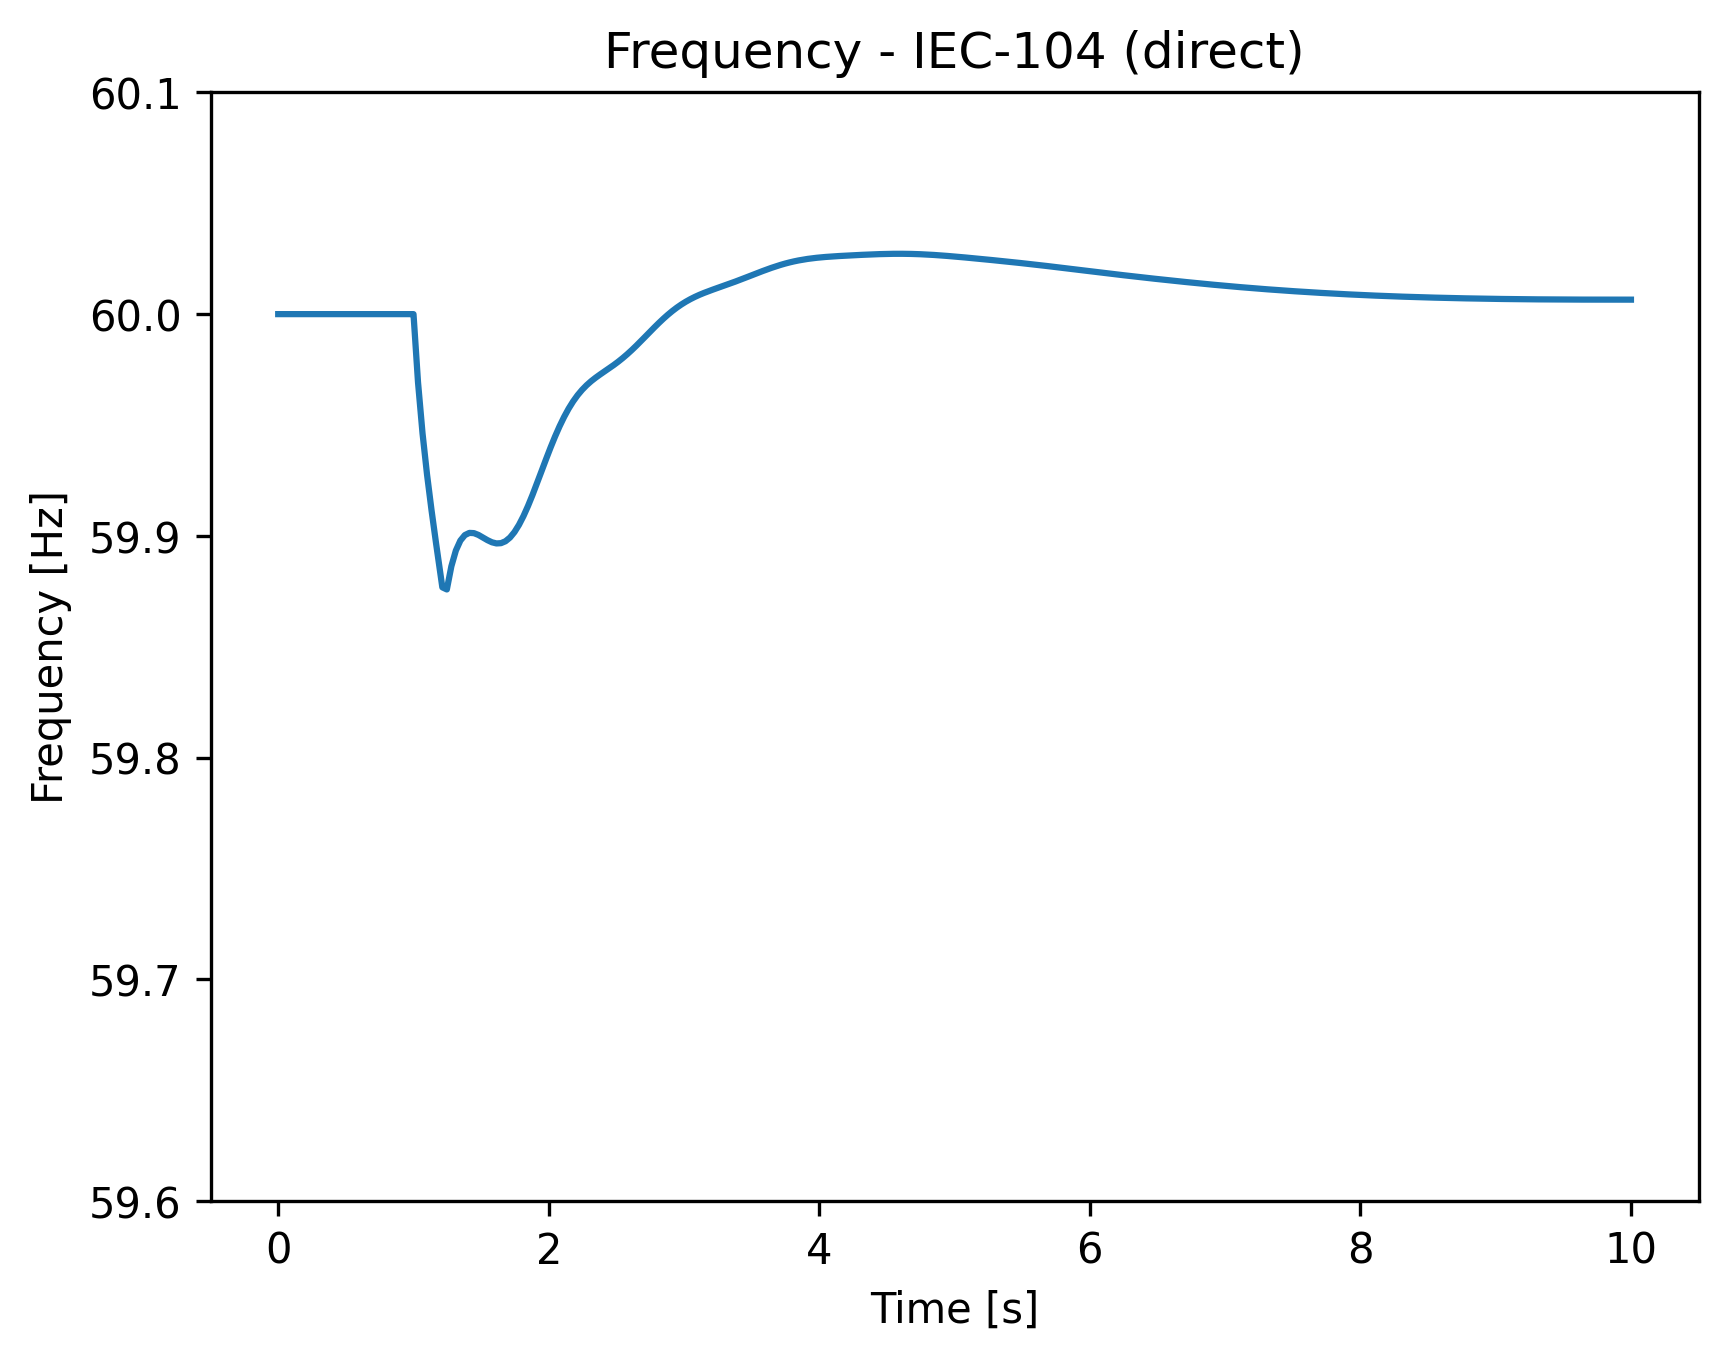
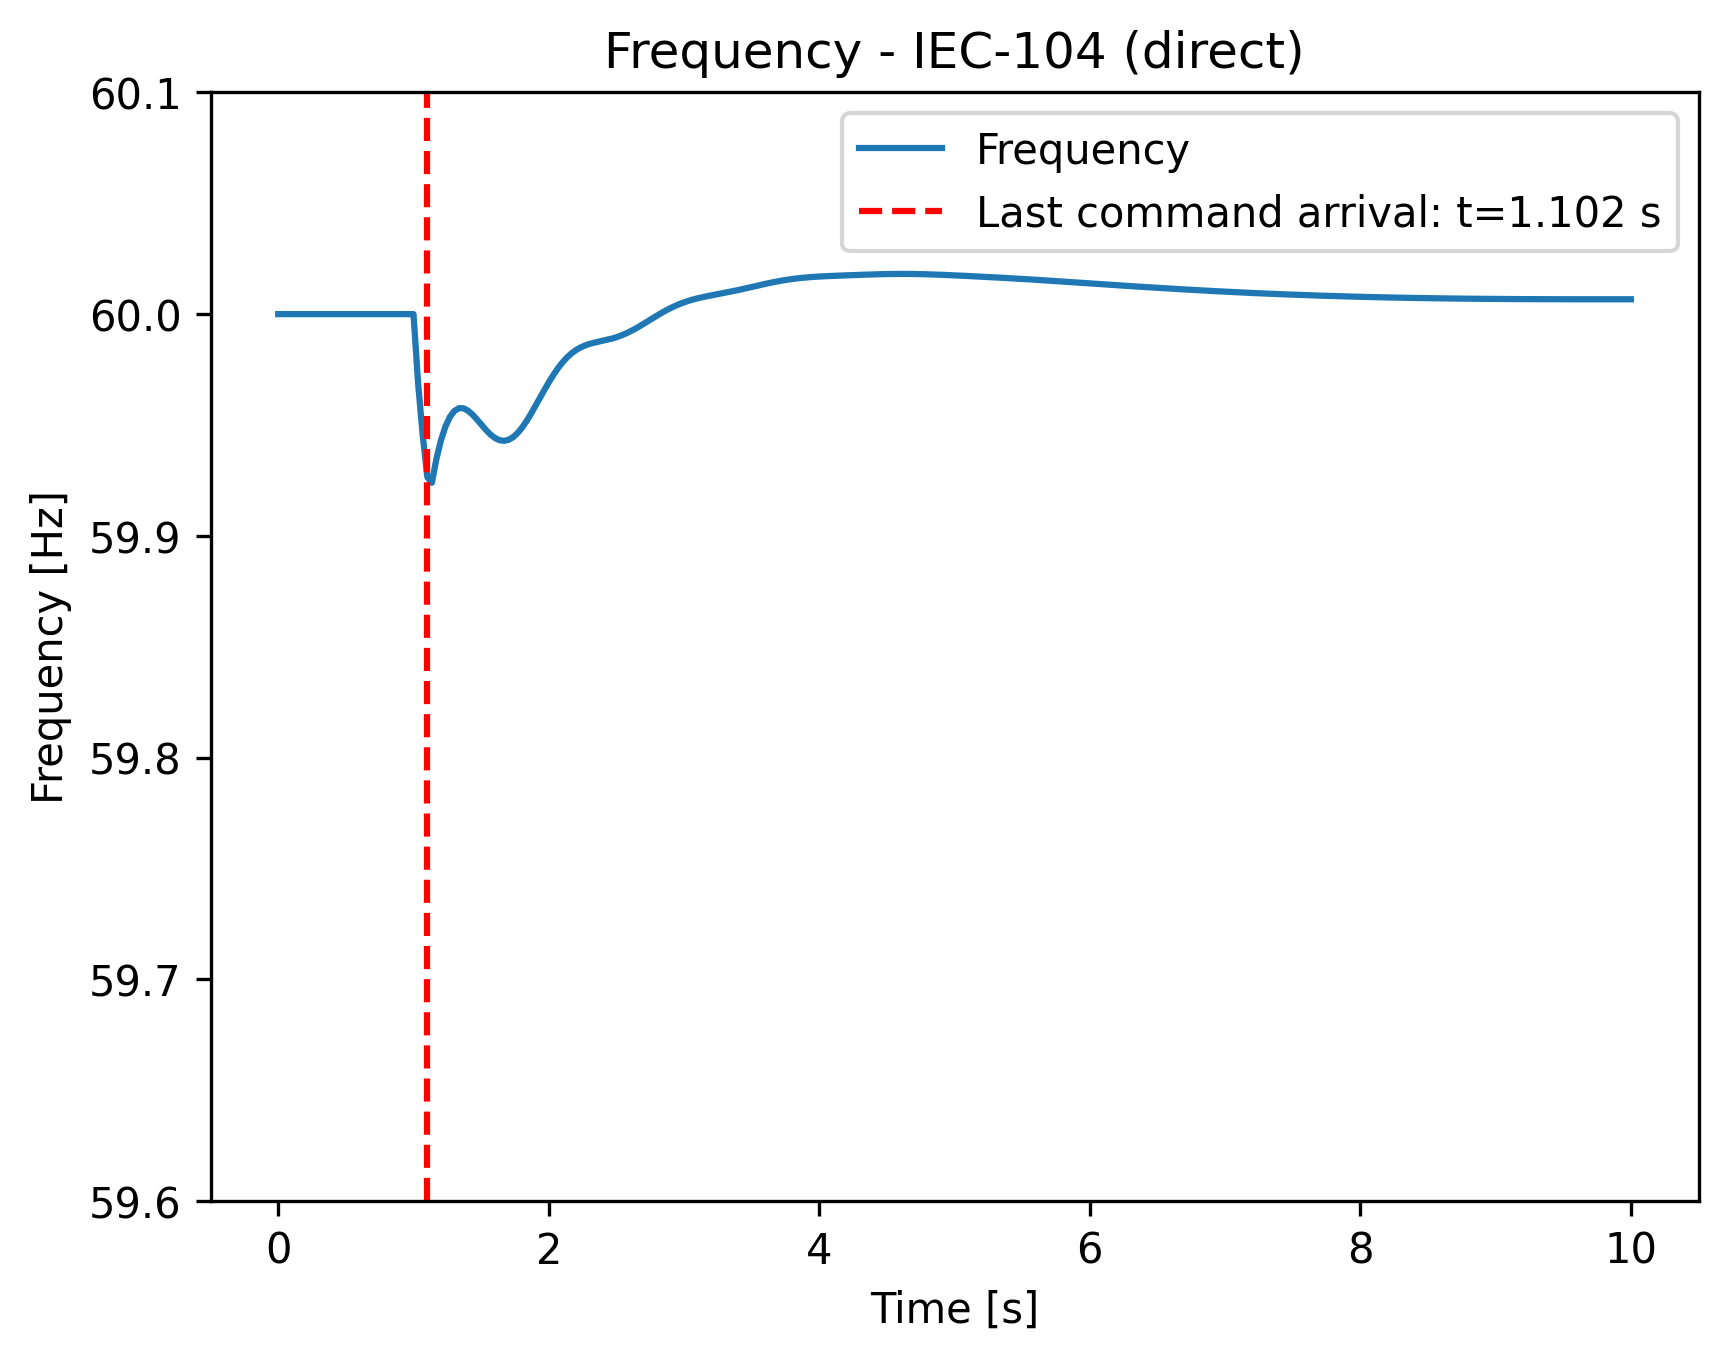
Added MITM strategy with random delay

diff --git a/mitm_proxy_iec104_delay.py b/mitm_proxy_iec104_delay.py
@@ -22,6 +22,7 @@ Run example (3 terminals):
 """
 
 import argparse
+import random
 import threading
 import time
 import sys
@@ -50,6 +51,24 @@ def main() -> None:
     ap.add_argument("--upstream-port", type=int, default=2404, help="real outstation server port")
     ap.add_argument("--ca", type=int, default=1, help="station common address")
     ap.add_argument("--shed-delay", type=float, default=0.0, help="additional delay (seconds) applied ONLY to shed commands")
+    ap.add_argument(
+        "--shed-delay-min",
+        type=float,
+        default=None,
+        help="if set together with --shed-delay-max, apply a per-packet random delay U[min,max] to EACH shed command packet",
+    )
+    ap.add_argument(
+        "--shed-delay-max",
+        type=float,
+        default=None,
+        help="upper bound for per-packet random delay (seconds)",
+    )
+    ap.add_argument(
+        "--seed",
+        type=int,
+        default=None,
+        help="RNG seed for repeatable per-packet delays (only used with --shed-delay-min/--shed-delay-max)",
+    )
     ap.add_argument("--tick-ms", type=int, default=50, help="tick rate (ms), min 50ms in c104")
     ap.add_argument("--command-timeout-ms", type=int, default=10000)
     ap.add_argument("--shed-buses", default="2,3,4,5,6,9", help="comma-separated bus list for shed commands")
@@ -59,6 +78,9 @@ def main() -> None:
 
     shed_buses = [int(x.strip()) for x in args.shed_buses.split(",") if x.strip()]
     ca = int(args.ca)
+
+    use_random_per_packet = (args.shed_delay_min is not None) and (args.shed_delay_max is not None)
+    rng = random.Random(args.seed) if use_random_per_packet else None
 
     t0 = time.monotonic()
 
@@ -77,7 +99,13 @@ def main() -> None:
     print(
         f"[iec104-mitm] listen {args.listen_host}:{args.listen_port} (as outstation) | "
         f"upstream {args.upstream_host}:{args.upstream_port} (as master) | CA={ca} | shed_delay={args.shed_delay}s"
-        , flush=True
+        + (
+            f" | per_packet_delay=U[{float(args.shed_delay_min):.3f},{float(args.shed_delay_max):.3f}]s seed={args.seed}"
+            if use_random_per_packet
+            else ""
+        )
+        ,
+        flush=True,
     )
 
     # --------------------------
@@ -208,7 +236,9 @@ def main() -> None:
                 pt.transmit(c104.Cot.SPONTANEOUS)
 
     # --------------------------
-    # Delay ONLY shedding commands (buffer + flush)
+    # Delay ONLY shedding commands
+    #   - Default: buffer + flush once after fixed --shed-delay (legacy behavior)
+    #   - Optional: per-packet random delay U[min,max] for EACH shed command
     # --------------------------
     start_lock = threading.Lock()
     pending_start: bool | None = None
@@ -254,6 +284,57 @@ def main() -> None:
     cmd_lock = threading.Lock()
     pending_shed: dict[int, float] = {}  # ioa -> value
     flush_timer: threading.Timer | None = None
+
+    def _sample_shed_delay() -> float:
+        if not use_random_per_packet:
+            return max(0.0, float(args.shed_delay))
+        lo = float(args.shed_delay_min)
+        hi = float(args.shed_delay_max)
+        if lo > hi:
+            lo, hi = hi, lo
+        if hi <= 0.0:
+            return 0.0
+        lo = max(0.0, lo)
+        hi = max(0.0, hi)
+        # rng is set when use_random_per_packet=True
+        return float(rng.uniform(lo, hi))
+
+    def _forward_one_shed(ioa: int, value: float, sampled_delay_s: float) -> None:
+        ioa = int(ioa)
+        value = float(value)
+        sampled_delay_s = max(0.0, float(sampled_delay_s))
+
+        def _attempt_send() -> None:
+            if not upstream_open.is_set():
+                log(f"FWD shed deferred (upstream not open) ioa={ioa}")
+                t = threading.Timer(0.1, _attempt_send)
+                t.daemon = True
+                t.start()
+                return
+
+            bus = int(ioa - IOA_SHED_BASE)
+            pt = up_shed_cmd.get(bus)
+            if pt is None:
+                return
+            try:
+                pt.value = float(value)
+                ok = pt.transmit(c104.Cot.ACTIVATION)
+            except Exception:
+                ok = False
+
+            if not ok:
+                log(f"FWD shed failed; retrying ioa={ioa}")
+                t = threading.Timer(0.1, _attempt_send)
+                t.daemon = True
+                t.start()
+                return
+
+            log(f"FWD MITM->upstream shed ioa={ioa} value={float(value)}")
+
+        log(f"ARM per-packet shed timer ioa={ioa} delay={sampled_delay_s:.3f}s")
+        t = threading.Timer(sampled_delay_s, _attempt_send)
+        t.daemon = True
+        t.start()
 
     def flush_shed_commands() -> None:
         nonlocal flush_timer
@@ -357,20 +438,26 @@ def main() -> None:
                 return c104.ResponseState.FAILURE
 
         if is_shed_command_ioa(ioa, shed_buses):
-            # Buffer and flush once after shed-delay.
-            nonlocal flush_timer
-            with cmd_lock:
-                pending_shed[ioa] = float(value)
-                log(f"BUF shed ioa={ioa} value={float(value)} pending={len(pending_shed)}")
-                if flush_timer is None:
-                    delay_s = max(0.0, float(args.shed_delay))
-                    log(f"ARM flush timer in {delay_s:.3f}s")
-                    if delay_s == 0.0:
-                        flush_timer = threading.Timer(0.0, flush_shed_commands)
-                    else:
-                        flush_timer = threading.Timer(delay_s, flush_shed_commands)
-                    flush_timer.daemon = True
-                    flush_timer.start()
+            if use_random_per_packet:
+                # Independent delay for each shed command packet.
+                with cmd_lock:
+                    delay_s = _sample_shed_delay()
+                _forward_one_shed(int(ioa), float(value), float(delay_s))
+            else:
+                # Legacy: buffer and flush once after fixed --shed-delay.
+                nonlocal flush_timer
+                with cmd_lock:
+                    pending_shed[ioa] = float(value)
+                    log(f"BUF shed ioa={ioa} value={float(value)} pending={len(pending_shed)}")
+                    if flush_timer is None:
+                        delay_s = max(0.0, float(args.shed_delay))
+                        log(f"ARM flush timer in {delay_s:.3f}s")
+                        if delay_s == 0.0:
+                            flush_timer = threading.Timer(0.0, flush_shed_commands)
+                        else:
+                            flush_timer = threading.Timer(delay_s, flush_shed_commands)
+                        flush_timer.daemon = True
+                        flush_timer.start()
 
             # Ack immediately; the forwarding is delayed.
             return c104.ResponseState.SUCCESS

diff --git a/system_RT_iec104.py b/system_RT_iec104.py
@@ -227,13 +227,23 @@ def extract_time_and_freq(ss: andes.system.System):
     return ts, freq_mat[:, 0]
 
 
-def plot_frequency(t, freq, title: str, filename: str) -> None:
+def plot_frequency(t, freq, title: str, filename: str, last_cmd_time: float | None = None) -> None:
     fig, ax = plt.subplots()
-    ax.plot(t, freq)
+    ax.plot(t, freq, label="Frequency")
+    if last_cmd_time is not None:
+        t_last = float(last_cmd_time)
+        ax.axvline(
+            t_last,
+            color="r",
+            linestyle="--",
+            label=f"Last command arrival: t={t_last:.3f} s",
+        )
     ax.set_xlabel("Time [s]")
     ax.set_ylabel("Frequency [Hz]")
     ax.set_title(title)
     ax.set_ylim(FREQ_Y_LIMS[0], FREQ_Y_LIMS[1])
+
+    ax.legend(loc="best")
 
     PLOTS_DIR.mkdir(parents=True, exist_ok=True)
     out_path = PLOTS_DIR / filename
@@ -254,12 +264,6 @@ def _parse_args() -> argparse.Namespace:
         choices=["direct", "mitm"],
         default=os.environ.get("IEC104_SCENARIO", "direct"),
         help="Label outputs as direct IEC-104 or MITM-proxied IEC-104 (default: direct).",
-    )
-    parser.add_argument(
-        "--induced-delay",
-        type=float,
-        default=(float(os.environ["IEC104_INDUCED_DELAY"]) if "IEC104_INDUCED_DELAY" in os.environ else None),
-        help="Induced delay configured in the MITM (seconds). Required when --scenario mitm.",
     )
     parser.add_argument(
         "--wait-start",
@@ -296,9 +300,6 @@ def main():
     andes.config_logger(stream_level=20)
 
     args = _parse_args()
-    if args.scenario == "mitm" and args.induced_delay is None:
-        raise ValueError("For --scenario mitm you must pass --induced-delay (or set IEC104_INDUCED_DELAY).")
-
     if args.scenario == "mitm":
         print(
             "[iec104-system] NOTE: --scenario mitm only affects output labeling. "
@@ -438,9 +439,16 @@ def main():
     server.stop()
 
     if args.shed_mode == "all_at_once":
-        t1 = time.perf_counter()
-        delay = t1 - float(t0)
-        t_shed = t_trip + delay
+        t0_tx = tx_t0["t0"]
+        if t0_tx is None:
+            raise RuntimeError("Internal error: transmit t0 not set")
+
+        # For consistency with per_command mode, measure delay as:
+        #   (timestamp of last received command) - (timestamp of measurement transmit).
+        # This avoids including extra overhead (thread wake-up, server.stop(), scheduling jitter).
+        t_last_rx = max(float(v) for v in received_shed_time_by_bus.values())
+        delay = max(0.0, float(t_last_rx) - float(t0_tx))
+        t_shed = t_trip + float(delay)
 
         shed_dict: dict = {}
         for bus in expected_buses:
@@ -532,16 +540,14 @@ def main():
         png_name = f"freq_iec104_direct_{shed_tag}.png"
         npz_name = f"case_iec104_direct_{shed_tag}.npz"
     else:
-        induced = float(args.induced_delay)
-        title = f"Frequency - IEC-104 (MITM, induced delay={induced:.3f} s)"
-        tag = _delay_tag(induced)
-        png_name = f"freq_iec104_mitm_delay{tag}_{shed_tag}.png"
-        npz_name = f"case_iec104_mitm_delay{tag}_{shed_tag}.npz"
+        title = "Frequency - IEC-104 (MITM)"
+        png_name = f"freq_iec104_mitm_{shed_tag}.png"
+        npz_name = f"case_iec104_mitm_{shed_tag}.npz"
 
     if args.shed_mode == "per_command":
         title = title + " [per-command shedding]"
 
-    plot_frequency(t_arr, f_arr, title, png_name)
+    plot_frequency(t_arr, f_arr, title, png_name, last_cmd_time=float(t_trip + measured_delay))
     if per_bus_delays is None:
         np.savez(BASE_DIR / npz_name, t=t_arr, freq=f_arr, measured_delay=float(measured_delay))
     else:

diff --git a/system_RT.py b/system_RT.py
@@ -219,18 +219,28 @@ def extract_time_and_freq(ss):
     return ts, freq_first
 
 
-def plot_frequency_from_arrays(t, freq, title, filename, y_limits=None):
+def plot_frequency_from_arrays(t, freq, title, filename, y_limits=None, last_cmd_time=None):
     """
     Plot frequency (Hz) from arrays and save to file.
     """
     fig, ax = plt.subplots()
-    ax.plot(t, freq)
+    ax.plot(t, freq, label="Frequency")
+    if last_cmd_time is not None:
+        t_last = float(last_cmd_time)
+        ax.axvline(
+            t_last,
+            color="r",
+            linestyle="--",
+            label=f"Last command arrival: t={t_last:.3f} s",
+        )
     ax.set_xlabel("Time [s]")
     ax.set_ylabel("Frequency [Hz]")
     ax.set_title(title)
 
     if y_limits is not None:
         ax.set_ylim(y_limits[0], y_limits[1])
+
+    ax.legend(loc="best")
 
     PLOTS_DIR.mkdir(parents=True, exist_ok=True)
     out_path = PLOTS_DIR / filename
@@ -263,6 +273,7 @@ def main():
         "Frequency - local controller (no TCP)",
         "freq_local.png",
         y_limits=FREQ_Y_LIMS,
+        last_cmd_time=float(t_shed_local),
     )
     np.savez(BASE_DIR / "case_local.npz", t=t_local, freq=f_local)
 
@@ -282,6 +293,7 @@ def main():
         "Frequency - remote controller (direct TCP)",
         "freq_direct.png",
         y_limits=FREQ_Y_LIMS,
+        last_cmd_time=float(t_shed_direct),
     )
     np.savez(BASE_DIR / "case_direct.npz", t=t_direct, freq=f_direct)
 
@@ -301,6 +313,7 @@ def main():
         "Frequency - remote controller (TCP via proxy)",
         "freq_proxy.png",
         y_limits=FREQ_Y_LIMS,
+        last_cmd_time=float(t_shed_proxy),
     )
     np.savez(BASE_DIR / "case_proxy.npz", t=t_proxy, freq=f_proxy)
 

diff --git a/README.md b/README.md
@@ -47,15 +47,17 @@ Example (stepwise response):
 To inject extra network delay into IEC-104, run an IEC-104-aware MITM bridge (it speaks IEC-104 as an outstation to the controller, and as a master to the real outstation).
 
 Run (three terminals):
-- Terminal A (outstation): `.venv/bin/python system_RT_iec104.py --scenario mitm --induced-delay 0.20` (listens on `127.0.0.1:2404`)
-- Terminal B (MITM proxy): `.venv/bin/python mitm_proxy_iec104_delay.py --listen-port 2405 --upstream-port 2404 --shed-delay 0.20`
+- Terminal A (outstation): `.venv/bin/python system_RT_iec104.py --scenario mitm` (listens on `127.0.0.1:2404`)
+- Terminal B (MITM proxy, fixed delay): `.venv/bin/python mitm_proxy_iec104_delay.py --listen-port 2405 --upstream-port 2404 --shed-delay 0.20`
+- Terminal B (MITM proxy, random per-packet delay): `.venv/bin/python mitm_proxy_iec104_delay.py --listen-port 2405 --upstream-port 2404 --shed-delay-min 0.05 --shed-delay-max 0.45 --seed 98`
 - Terminal C (controller via proxy): `.venv/bin/python controller_iec104_master.py --scenario mitm` (defaults to port `2405`)
 
 Notes:
 - The proxy adds delay only to the shedding setpoint commands (IOA `20000+bus`), not to monitoring values.
+- With `--shed-delay-min/--shed-delay-max`, each shed command gets its own delay sampled uniformly; `--seed` makes runs repeatable.
 - If you set `IEC104_PORT`, it overrides the scenario default.
 
 Outputs:
 - Plots (direct): `plots/freq_iec104_direct_all.png` or `plots/freq_iec104_direct_percmd.png`
-- Plots (MITM): `plots/freq_iec104_mitm_delay<X>_all.png` or `plots/freq_iec104_mitm_delay<X>_percmd.png`
+- Plots (MITM): `plots/freq_iec104_mitm_all.png` or `plots/freq_iec104_mitm_percmd.png`
 - Data (ignored by git): `case_iec104_*.npz`
